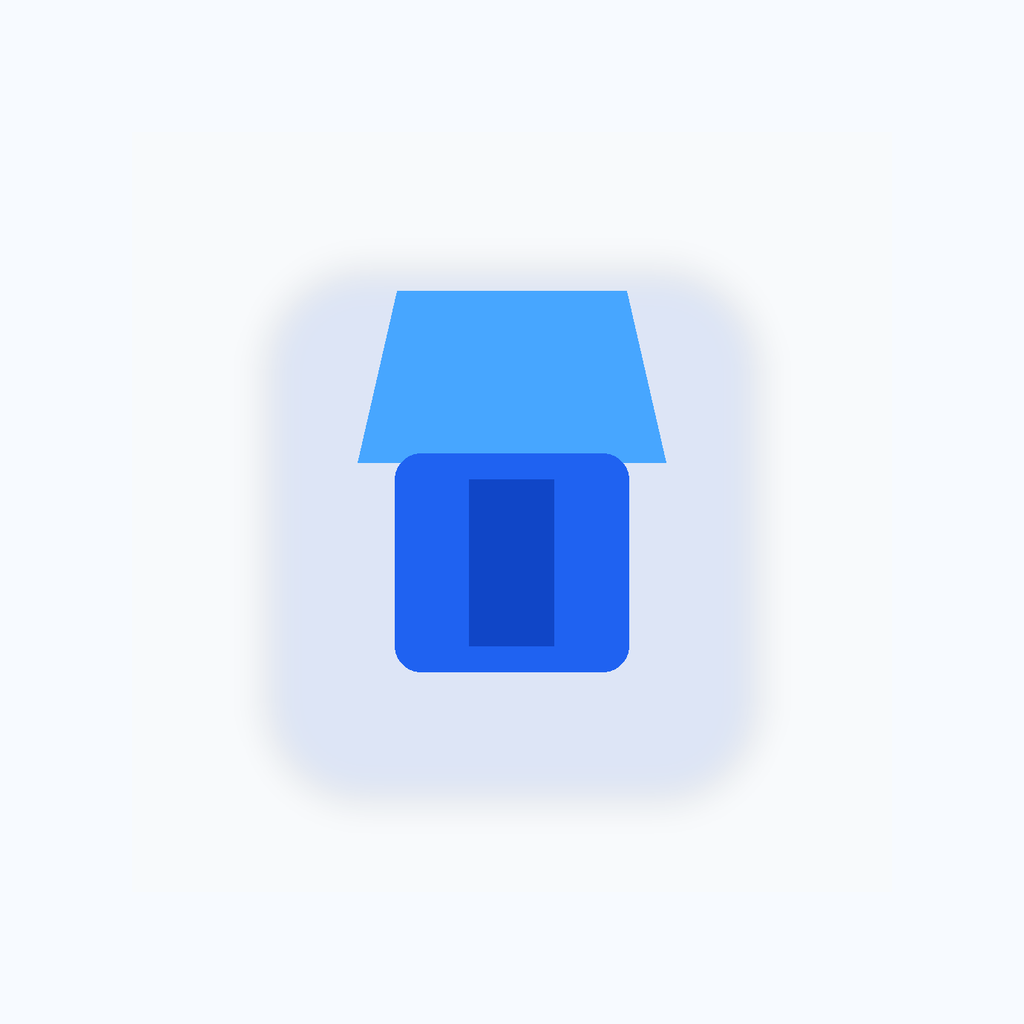
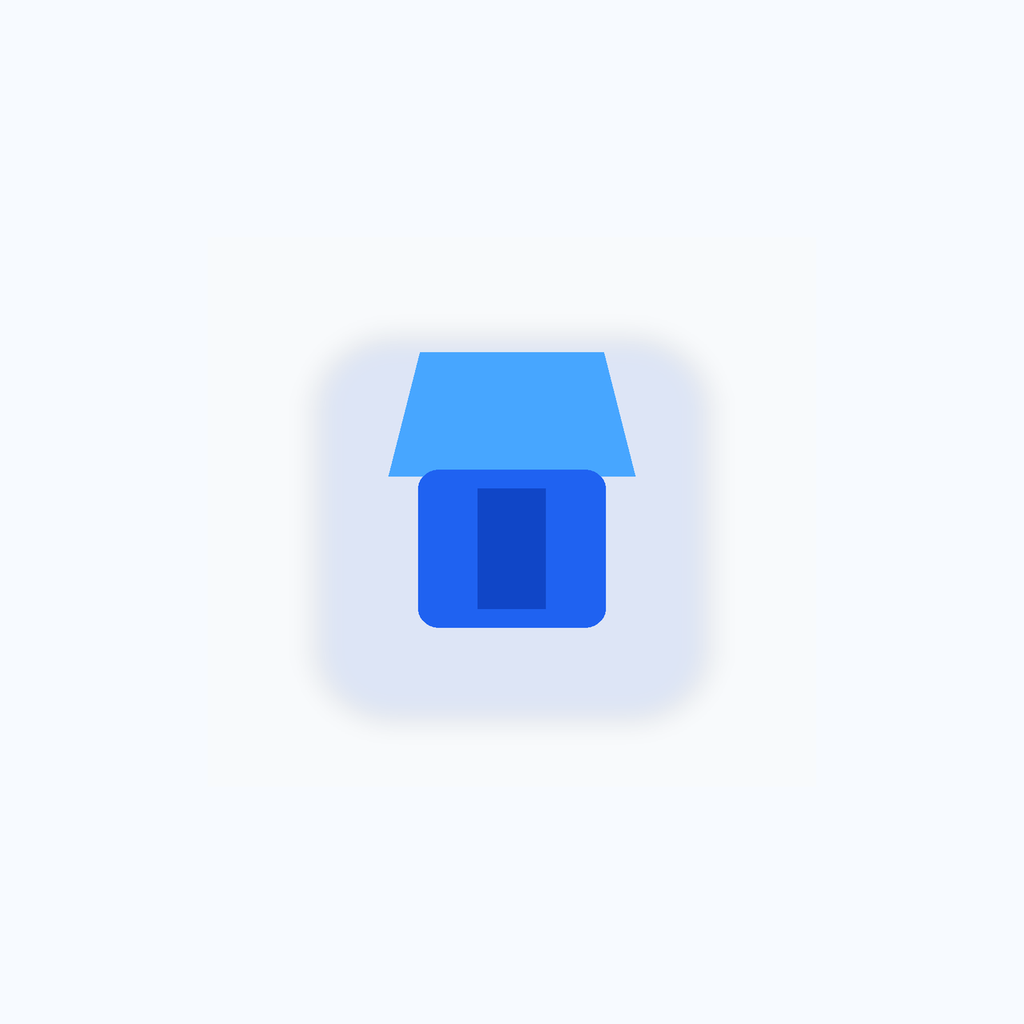
hgf

Changed region(s): [[0.2812, 0.2812, 0.7188, 0.7812]]

diff --git a/apps/mobile/App.tsx b/apps/mobile/App.tsx
@@ -2763,7 +2763,7 @@ const styles = StyleSheet.create({
     alignSelf: "center",
     height: 96,
     marginBottom: spacing.md,
-    width: "84%",
+    width: "92%",
   },
   brandImageCompact: {
     height: 78,